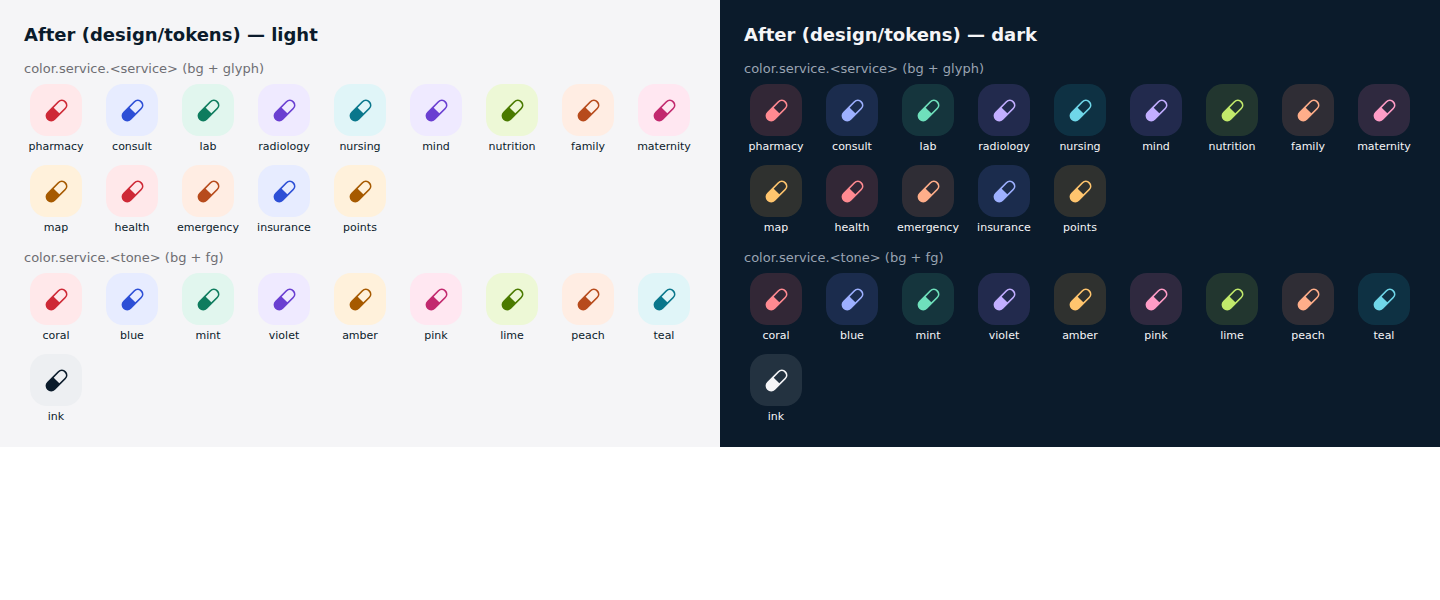
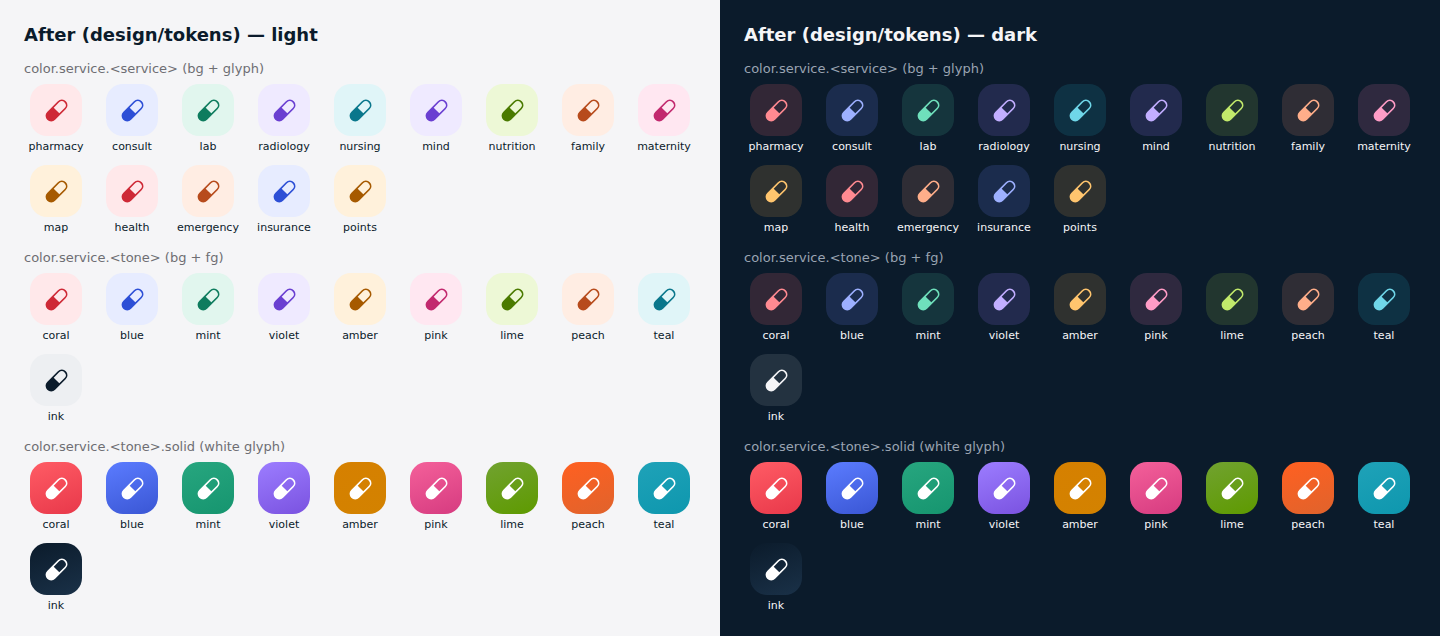
[DESIGN] Tokens: solid chip gradients reach 3:1 for the white glyph (design-session correction)
Only these values change (blue, violet and ink already pass):
coral.from #FF6B73->#FF5C65, mint.from #2DBF92->#27A67F,
amber.from #FFB547->#D68000, amber.to #E08A00->#D38200,
pink.from #F573A6->#F4609A, lime.from #8CC63F->#71A230,
peach.from #FF8A5C->#FF6021, teal.from #23B5CE->#1FA2B8.

- color.icon.onSolid (#FFFFFF): the glyph FIcon draws on a solid chip
- contrast pairs: icon.onSolid on service.<tone>.solid.{from,to}, min 3,
  kind icon, for all 10 tones (145 checks pass in both themes)
- screenshots: the swatch sheet now has a solid row
  (tokens-solid-before.png = previous tip, tokens-after.png = now)

Claude-Session: https://claude.ai/code/session_01DQMSZ7GTMCFr1YrcwBfzDM

diff --git a/packages/design-tokens/dist/ts/tokens.ts b/packages/design-tokens/dist/ts/tokens.ts
@@ -36,6 +36,7 @@ export interface Tokens {
       readonly secondary: string;
       readonly onBrand: string;
       readonly favorite: string;
+      readonly onSolid: string;
     };
     readonly action: {
       readonly primary: {
@@ -496,6 +497,7 @@ const lightTree: Tokens = {
       "secondary": "#6E6E73",
       "onBrand": "#FFFFFF",
       "favorite": "#D42A38",
+      "onSolid": "#FFFFFF",
     },
     "action": {
       "primary": {
@@ -561,7 +563,7 @@ const lightTree: Tokens = {
         "fg": "#CE2936",
         "bg": "#FFE8EA",
         "solid": {
-          "from": "#FF6B73",
+          "from": "#FF5C65",
           "to": "#E8384A",
         },
       },
@@ -577,7 +579,7 @@ const lightTree: Tokens = {
         "fg": "#0E7C5E",
         "bg": "#E1F6EE",
         "solid": {
-          "from": "#2DBF92",
+          "from": "#27A67F",
           "to": "#16956F",
         },
       },
@@ -593,15 +595,15 @@ const lightTree: Tokens = {
         "fg": "#A65A00",
         "bg": "#FFF1DB",
         "solid": {
-          "from": "#FFB547",
-          "to": "#E08A00",
+          "from": "#D68000",
+          "to": "#D38200",
         },
       },
       "pink": {
         "fg": "#C2296E",
         "bg": "#FFE7F1",
         "solid": {
-          "from": "#F573A6",
+          "from": "#F4609A",
           "to": "#D63B80",
         },
       },
@@ -609,7 +611,7 @@ const lightTree: Tokens = {
         "fg": "#4A7A00",
         "bg": "#EDF8D6",
         "solid": {
-          "from": "#8CC63F",
+          "from": "#71A230",
           "to": "#5E9A00",
         },
       },
@@ -617,7 +619,7 @@ const lightTree: Tokens = {
         "fg": "#B74B1C",
         "bg": "#FFEDE3",
         "solid": {
-          "from": "#FF8A5C",
+          "from": "#FF6021",
           "to": "#E0632C",
         },
       },
@@ -625,7 +627,7 @@ const lightTree: Tokens = {
         "fg": "#0A778C",
         "bg": "#E0F5F8",
         "solid": {
-          "from": "#23B5CE",
+          "from": "#1FA2B8",
           "to": "#0E97AE",
         },
       },
@@ -956,6 +958,7 @@ const darkTree: Tokens = {
       "secondary": "#9AA4B2",
       "onBrand": "#0B1B2B",
       "favorite": "#D42A38",
+      "onSolid": "#FFFFFF",
     },
     "action": {
       "primary": {
@@ -1021,7 +1024,7 @@ const darkTree: Tokens = {
         "fg": "#FF8A91",
         "bg": "rgba(255,107,115,0.16)",
         "solid": {
-          "from": "#FF6B73",
+          "from": "#FF5C65",
           "to": "#E8384A",
         },
       },
@@ -1037,7 +1040,7 @@ const darkTree: Tokens = {
         "fg": "#6FE0BC",
         "bg": "rgba(79,210,168,0.15)",
         "solid": {
-          "from": "#2DBF92",
+          "from": "#27A67F",
           "to": "#16956F",
         },
       },
@@ -1053,15 +1056,15 @@ const darkTree: Tokens = {
         "fg": "#FFC56E",
         "bg": "rgba(255,181,71,0.15)",
         "solid": {
-          "from": "#FFB547",
-          "to": "#E08A00",
+          "from": "#D68000",
+          "to": "#D38200",
         },
       },
       "pink": {
         "fg": "#FF9CC6",
         "bg": "rgba(255,128,180,0.15)",
         "solid": {
-          "from": "#F573A6",
+          "from": "#F4609A",
           "to": "#D63B80",
         },
       },
@@ -1069,7 +1072,7 @@ const darkTree: Tokens = {
         "fg": "#C2EA6B",
         "bg": "rgba(168,217,74,0.15)",
         "solid": {
-          "from": "#8CC63F",
+          "from": "#71A230",
           "to": "#5E9A00",
         },
       },
@@ -1077,7 +1080,7 @@ const darkTree: Tokens = {
         "fg": "#FFAE8A",
         "bg": "rgba(255,156,114,0.15)",
         "solid": {
-          "from": "#FF8A5C",
+          "from": "#FF6021",
           "to": "#E0632C",
         },
       },
@@ -1085,7 +1088,7 @@ const darkTree: Tokens = {
         "fg": "#6FD6E8",
         "bg": "rgba(35,181,206,0.15)",
         "solid": {
-          "from": "#23B5CE",
+          "from": "#1FA2B8",
           "to": "#0E97AE",
         },
       },
@@ -1516,6 +1519,7 @@ export const light: Readonly<Record<string, string | number>> = Object.freeze({
   "color.icon.secondary": "#6E6E73",
   "color.icon.onBrand": "#FFFFFF",
   "color.icon.favorite": "#D42A38",
+  "color.icon.onSolid": "#FFFFFF",
   "color.action.primary.bg": "#D42A38",
   "color.action.primary.fg": "#FFFFFF",
   "color.action.primary.gradient.from": "#E62337",
@@ -1547,7 +1551,7 @@ export const light: Readonly<Record<string, string | number>> = Object.freeze({
   "color.status.neutral.bg": "#F5F5F7",
   "color.service.coral.fg": "#CE2936",
   "color.service.coral.bg": "#FFE8EA",
-  "color.service.coral.solid.from": "#FF6B73",
+  "color.service.coral.solid.from": "#FF5C65",
   "color.service.coral.solid.to": "#E8384A",
   "color.service.blue.fg": "#2D4FD6",
   "color.service.blue.bg": "#E7ECFF",
@@ -1555,7 +1559,7 @@ export const light: Readonly<Record<string, string | number>> = Object.freeze({
   "color.service.blue.solid.to": "#3A56D4",
   "color.service.mint.fg": "#0E7C5E",
   "color.service.mint.bg": "#E1F6EE",
-  "color.service.mint.solid.from": "#2DBF92",
+  "color.service.mint.solid.from": "#27A67F",
   "color.service.mint.solid.to": "#16956F",
   "color.service.violet.fg": "#6A3FD1",
   "color.service.violet.bg": "#EFEAFF",
@@ -1563,23 +1567,23 @@ export const light: Readonly<Record<string, string | number>> = Object.freeze({
   "color.service.violet.solid.to": "#7A52E0",
   "color.service.amber.fg": "#A65A00",
   "color.service.amber.bg": "#FFF1DB",
-  "color.service.amber.solid.from": "#FFB547",
-  "color.service.amber.solid.to": "#E08A00",
+  "color.service.amber.solid.from": "#D68000",
+  "color.service.amber.solid.to": "#D38200",
   "color.service.pink.fg": "#C2296E",
   "color.service.pink.bg": "#FFE7F1",
-  "color.service.pink.solid.from": "#F573A6",
+  "color.service.pink.solid.from": "#F4609A",
   "color.service.pink.solid.to": "#D63B80",
   "color.service.lime.fg": "#4A7A00",
   "color.service.lime.bg": "#EDF8D6",
-  "color.service.lime.solid.from": "#8CC63F",
+  "color.service.lime.solid.from": "#71A230",
   "color.service.lime.solid.to": "#5E9A00",
   "color.service.peach.fg": "#B74B1C",
   "color.service.peach.bg": "#FFEDE3",
-  "color.service.peach.solid.from": "#FF8A5C",
+  "color.service.peach.solid.from": "#FF6021",
   "color.service.peach.solid.to": "#E0632C",
   "color.service.teal.fg": "#0A778C",
   "color.service.teal.bg": "#E0F5F8",
-  "color.service.teal.solid.from": "#23B5CE",
+  "color.service.teal.solid.from": "#1FA2B8",
   "color.service.teal.solid.to": "#0E97AE",
   "color.service.ink.fg": "#0B1B2B",
   "color.service.ink.bg": "#EDEFF2",
@@ -1771,6 +1775,7 @@ export const dark: Readonly<Record<string, string | number>> = Object.freeze({
   "color.icon.secondary": "#9AA4B2",
   "color.icon.onBrand": "#0B1B2B",
   "color.icon.favorite": "#D42A38",
+  "color.icon.onSolid": "#FFFFFF",
   "color.action.primary.bg": "#FF6B73",
   "color.action.primary.fg": "#0B1B2B",
   "color.action.primary.gradient.from": "#FF6B73",
@@ -1802,7 +1807,7 @@ export const dark: Readonly<Record<string, string | number>> = Object.freeze({
   "color.status.neutral.bg": "#12263A",
   "color.service.coral.fg": "#FF8A91",
   "color.service.coral.bg": "rgba(255,107,115,0.16)",
-  "color.service.coral.solid.from": "#FF6B73",
+  "color.service.coral.solid.from": "#FF5C65",
   "color.service.coral.solid.to": "#E8384A",
   "color.service.blue.fg": "#9DB0FF",
   "color.service.blue.bg": "rgba(110,139,255,0.16)",
@@ -1810,7 +1815,7 @@ export const dark: Readonly<Record<string, string | number>> = Object.freeze({
   "color.service.blue.solid.to": "#3A56D4",
   "color.service.mint.fg": "#6FE0BC",
   "color.service.mint.bg": "rgba(79,210,168,0.15)",
-  "color.service.mint.solid.from": "#2DBF92",
+  "color.service.mint.solid.from": "#27A67F",
   "color.service.mint.solid.to": "#16956F",
   "color.service.violet.fg": "#C2AEFF",
   "color.service.violet.bg": "rgba(156,125,255,0.16)",
@@ -1818,23 +1823,23 @@ export const dark: Readonly<Record<string, string | number>> = Object.freeze({
   "color.service.violet.solid.to": "#7A52E0",
   "color.service.amber.fg": "#FFC56E",
   "color.service.amber.bg": "rgba(255,181,71,0.15)",
-  "color.service.amber.solid.from": "#FFB547",
-  "color.service.amber.solid.to": "#E08A00",
+  "color.service.amber.solid.from": "#D68000",
+  "color.service.amber.solid.to": "#D38200",
   "color.service.pink.fg": "#FF9CC6",
   "color.service.pink.bg": "rgba(255,128,180,0.15)",
-  "color.service.pink.solid.from": "#F573A6",
+  "color.service.pink.solid.from": "#F4609A",
   "color.service.pink.solid.to": "#D63B80",
   "color.service.lime.fg": "#C2EA6B",
   "color.service.lime.bg": "rgba(168,217,74,0.15)",
-  "color.service.lime.solid.from": "#8CC63F",
+  "color.service.lime.solid.from": "#71A230",
   "color.service.lime.solid.to": "#5E9A00",
   "color.service.peach.fg": "#FFAE8A",
   "color.service.peach.bg": "rgba(255,156,114,0.15)",
-  "color.service.peach.solid.from": "#FF8A5C",
+  "color.service.peach.solid.from": "#FF6021",
   "color.service.peach.solid.to": "#E0632C",
   "color.service.teal.fg": "#6FD6E8",
   "color.service.teal.bg": "rgba(35,181,206,0.15)",
-  "color.service.teal.solid.from": "#23B5CE",
+  "color.service.teal.solid.from": "#1FA2B8",
   "color.service.teal.solid.to": "#0E97AE",
   "color.service.ink.fg": "#F5F5F7",
   "color.service.ink.bg": "rgba(255,255,255,0.10)",

diff --git a/packages/design-tokens/dist/css/tokens.css b/packages/design-tokens/dist/css/tokens.css
@@ -26,6 +26,7 @@
   --nabd-color-icon-secondary: #6E6E73;
   --nabd-color-icon-onBrand: #FFFFFF;
   --nabd-color-icon-favorite: #D42A38;
+  --nabd-color-icon-onSolid: #FFFFFF;
   --nabd-color-action-primary-bg: #D42A38;
   --nabd-color-action-primary-fg: #FFFFFF;
   --nabd-color-action-primary-gradient-from: #E62337;
@@ -57,7 +58,7 @@
   --nabd-color-status-neutral-bg: #F5F5F7;
   --nabd-color-service-coral-fg: #CE2936;
   --nabd-color-service-coral-bg: #FFE8EA;
-  --nabd-color-service-coral-solid-from: #FF6B73;
+  --nabd-color-service-coral-solid-from: #FF5C65;
   --nabd-color-service-coral-solid-to: #E8384A;
   --nabd-color-service-blue-fg: #2D4FD6;
   --nabd-color-service-blue-bg: #E7ECFF;
@@ -65,7 +66,7 @@
   --nabd-color-service-blue-solid-to: #3A56D4;
   --nabd-color-service-mint-fg: #0E7C5E;
   --nabd-color-service-mint-bg: #E1F6EE;
-  --nabd-color-service-mint-solid-from: #2DBF92;
+  --nabd-color-service-mint-solid-from: #27A67F;
   --nabd-color-service-mint-solid-to: #16956F;
   --nabd-color-service-violet-fg: #6A3FD1;
   --nabd-color-service-violet-bg: #EFEAFF;
@@ -73,23 +74,23 @@
   --nabd-color-service-violet-solid-to: #7A52E0;
   --nabd-color-service-amber-fg: #A65A00;
   --nabd-color-service-amber-bg: #FFF1DB;
-  --nabd-color-service-amber-solid-from: #FFB547;
-  --nabd-color-service-amber-solid-to: #E08A00;
+  --nabd-color-service-amber-solid-from: #D68000;
+  --nabd-color-service-amber-solid-to: #D38200;
   --nabd-color-service-pink-fg: #C2296E;
   --nabd-color-service-pink-bg: #FFE7F1;
-  --nabd-color-service-pink-solid-from: #F573A6;
+  --nabd-color-service-pink-solid-from: #F4609A;
   --nabd-color-service-pink-solid-to: #D63B80;
   --nabd-color-service-lime-fg: #4A7A00;
   --nabd-color-service-lime-bg: #EDF8D6;
-  --nabd-color-service-lime-solid-from: #8CC63F;
+  --nabd-color-service-lime-solid-from: #71A230;
   --nabd-color-service-lime-solid-to: #5E9A00;
   --nabd-color-service-peach-fg: #B74B1C;
   --nabd-color-service-peach-bg: #FFEDE3;
-  --nabd-color-service-peach-solid-from: #FF8A5C;
+  --nabd-color-service-peach-solid-from: #FF6021;
   --nabd-color-service-peach-solid-to: #E0632C;
   --nabd-color-service-teal-fg: #0A778C;
   --nabd-color-service-teal-bg: #E0F5F8;
-  --nabd-color-service-teal-solid-from: #23B5CE;
+  --nabd-color-service-teal-solid-from: #1FA2B8;
   --nabd-color-service-teal-solid-to: #0E97AE;
   --nabd-color-service-ink-fg: #0B1B2B;
   --nabd-color-service-ink-bg: #EDEFF2;

diff --git a/patient-web/app/design-tokens/tokens.css b/patient-web/app/design-tokens/tokens.css
@@ -26,6 +26,7 @@
   --nabd-color-icon-secondary: #6E6E73;
   --nabd-color-icon-onBrand: #FFFFFF;
   --nabd-color-icon-favorite: #D42A38;
+  --nabd-color-icon-onSolid: #FFFFFF;
   --nabd-color-action-primary-bg: #D42A38;
   --nabd-color-action-primary-fg: #FFFFFF;
   --nabd-color-action-primary-gradient-from: #E62337;
@@ -57,7 +58,7 @@
   --nabd-color-status-neutral-bg: #F5F5F7;
   --nabd-color-service-coral-fg: #CE2936;
   --nabd-color-service-coral-bg: #FFE8EA;
-  --nabd-color-service-coral-solid-from: #FF6B73;
+  --nabd-color-service-coral-solid-from: #FF5C65;
   --nabd-color-service-coral-solid-to: #E8384A;
   --nabd-color-service-blue-fg: #2D4FD6;
   --nabd-color-service-blue-bg: #E7ECFF;
@@ -65,7 +66,7 @@
   --nabd-color-service-blue-solid-to: #3A56D4;
   --nabd-color-service-mint-fg: #0E7C5E;
   --nabd-color-service-mint-bg: #E1F6EE;
-  --nabd-color-service-mint-solid-from: #2DBF92;
+  --nabd-color-service-mint-solid-from: #27A67F;
   --nabd-color-service-mint-solid-to: #16956F;
   --nabd-color-service-violet-fg: #6A3FD1;
   --nabd-color-service-violet-bg: #EFEAFF;
@@ -73,23 +74,23 @@
   --nabd-color-service-violet-solid-to: #7A52E0;
   --nabd-color-service-amber-fg: #A65A00;
   --nabd-color-service-amber-bg: #FFF1DB;
-  --nabd-color-service-amber-solid-from: #FFB547;
-  --nabd-color-service-amber-solid-to: #E08A00;
+  --nabd-color-service-amber-solid-from: #D68000;
+  --nabd-color-service-amber-solid-to: #D38200;
   --nabd-color-service-pink-fg: #C2296E;
   --nabd-color-service-pink-bg: #FFE7F1;
-  --nabd-color-service-pink-solid-from: #F573A6;
+  --nabd-color-service-pink-solid-from: #F4609A;
   --nabd-color-service-pink-solid-to: #D63B80;
   --nabd-color-service-lime-fg: #4A7A00;
   --nabd-color-service-lime-bg: #EDF8D6;
-  --nabd-color-service-lime-solid-from: #8CC63F;
+  --nabd-color-service-lime-solid-from: #71A230;
   --nabd-color-service-lime-solid-to: #5E9A00;
   --nabd-color-service-peach-fg: #B74B1C;
   --nabd-color-service-peach-bg: #FFEDE3;
-  --nabd-color-service-peach-solid-from: #FF8A5C;
+  --nabd-color-service-peach-solid-from: #FF6021;
   --nabd-color-service-peach-solid-to: #E0632C;
   --nabd-color-service-teal-fg: #0A778C;
   --nabd-color-service-teal-bg: #E0F5F8;
-  --nabd-color-service-teal-solid-from: #23B5CE;
+  --nabd-color-service-teal-solid-from: #1FA2B8;
   --nabd-color-service-teal-solid-to: #0E97AE;
   --nabd-color-service-ink-fg: #0B1B2B;
   --nabd-color-service-ink-bg: #EDEFF2;
